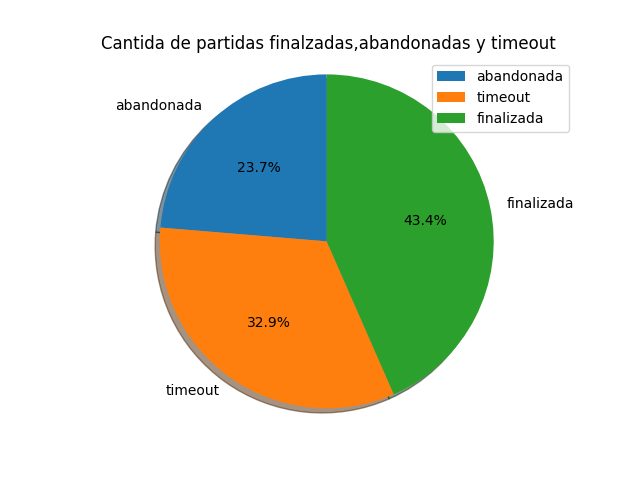
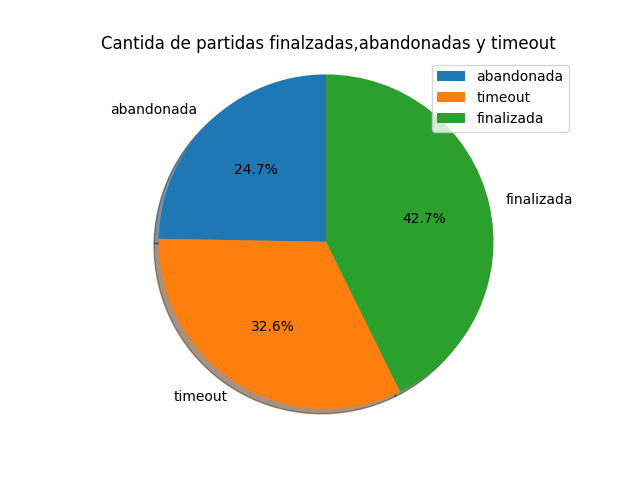
weas boludinhas

diff --git a/Source/Componentes/menu_tablero.py b/Source/Componentes/menu_tablero.py
@@ -93,6 +93,7 @@ def loop(window, datos, config, x, y):
 
             if(timer.se_termino_el_tiempo(start_timer, config["tiempo"])):
                 jugada._registrar_jugada('fin', jugada._numJug,"timeout",tiempo)
+                jugada._registrar_jugada('fin', jugada._numJug,"finalizada",tiempo)
                 jugada.finalizar()
                 
                 pg.mixer.music.stop()
